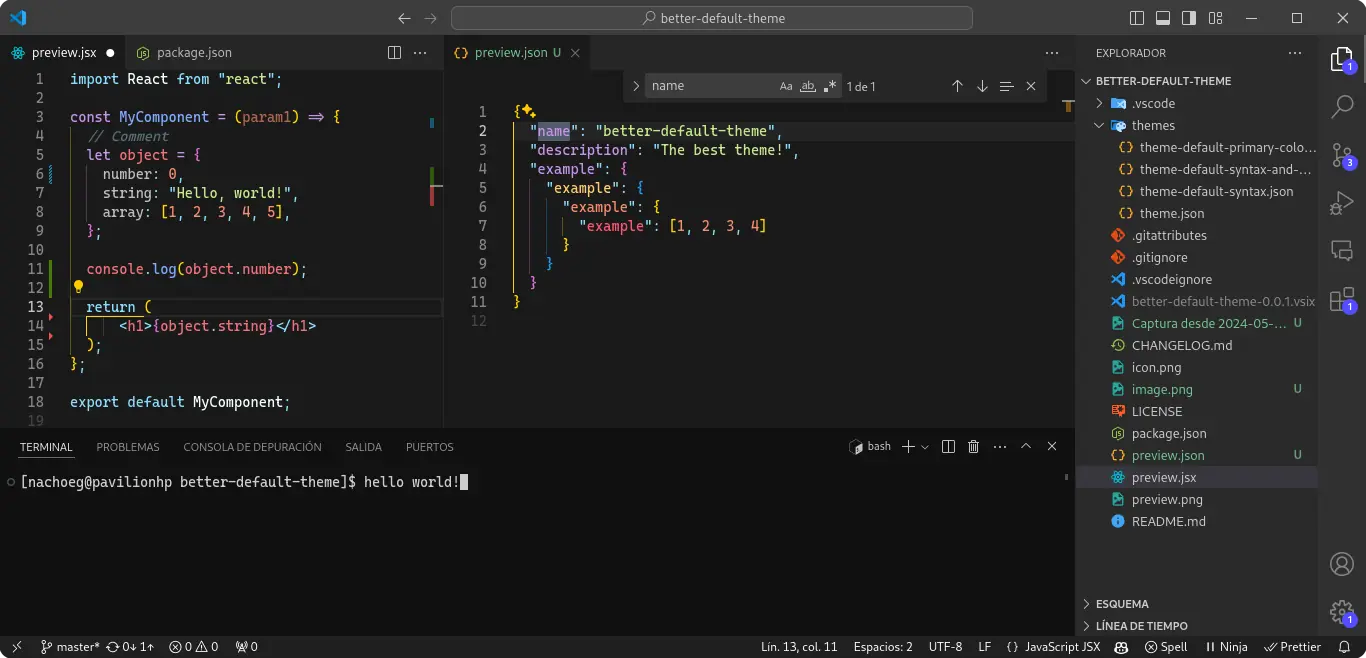
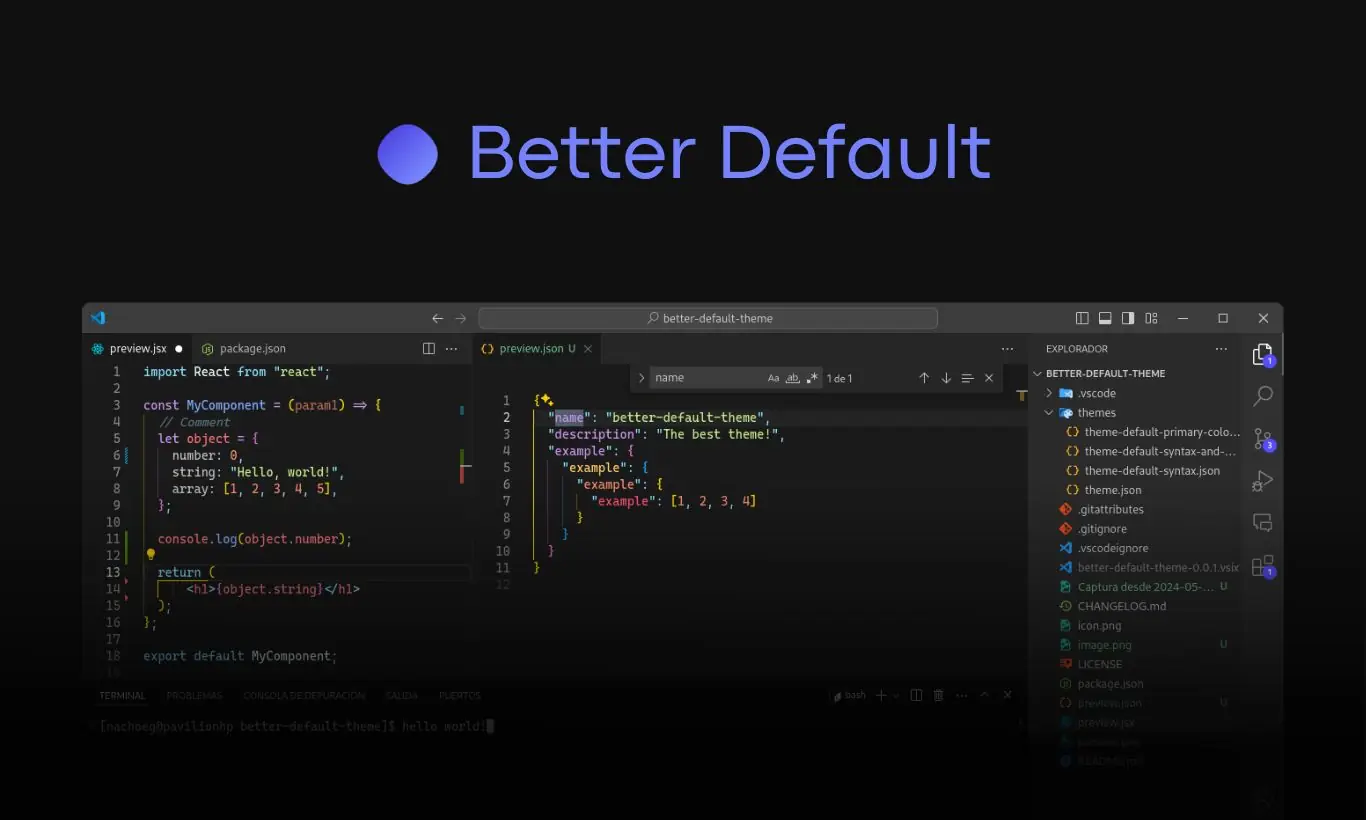
update better default project

diff --git a/src/data/projects.js b/src/data/projects.js
@@ -11,7 +11,7 @@ const PROJECTS = [
     projectLink: "/projects/better-default-theme",
     github: "https://github.com/nachoeg/better-default-theme",
     image: "/assets/better-default-theme.webp",
-    imagePosition: "object-left",
+    imagePosition: "object-center",
     tags: [TAGS.JSON, TAGS.VSCODE],
     selected: false,
   },

diff --git a/src/articles/better-default-theme.md b/src/articles/better-default-theme.md
@@ -1,0 +1,7 @@
+<figure>
+
+<img src="https://raw.githubusercontent.com/nachoeg/better-default-theme/master/preview.png">
+
+  <figcaption>Captura</figcaption>
+
+</figure>
